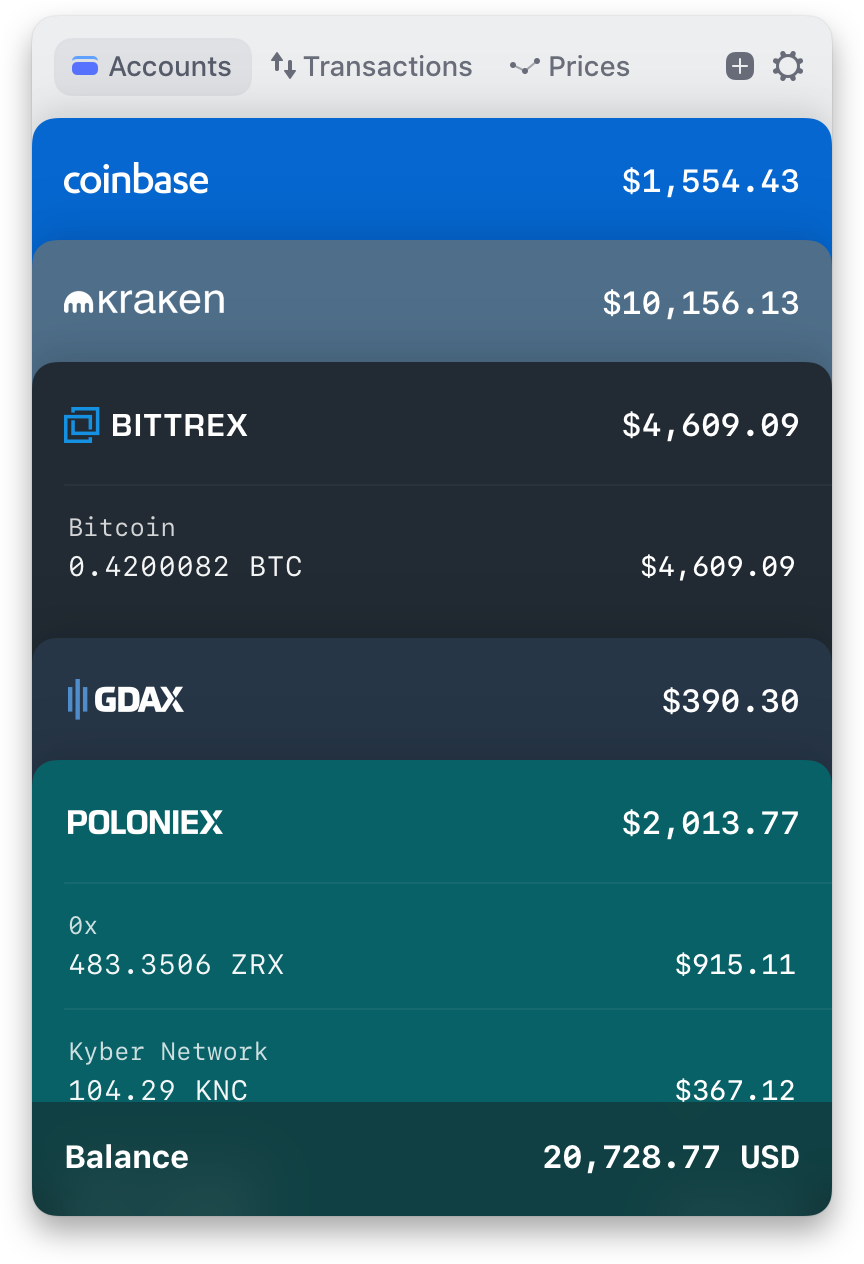
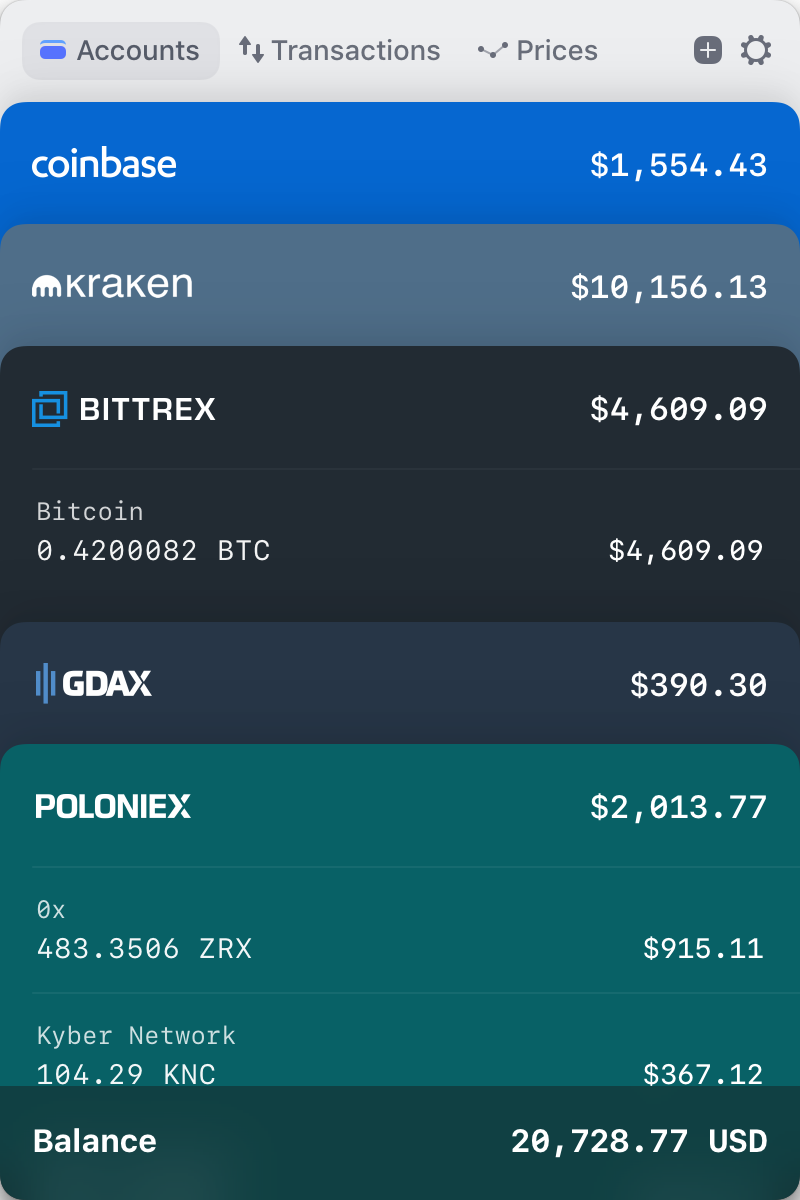
responsivess adjustments

Changed region(s): [[0.0, 0.0308, 1.0, 1.0]]

diff --git a/src/templates/page.js b/src/templates/page.js
@@ -9,7 +9,7 @@ import { colors, responsive } from '../styles';
 const SPage = styled(Section)`
   padding: 56px 0 12px;
   font-size: 14px;
-  min-height: ${({ article }) => (article ? 0 : 'calc(100vh - 136px)')};
+  min-height: ${({ article }) => (article ? 'calc(100vh - 136px)' : 0)};
   & article * {
     padding-bottom: 20px;
     opacity: 0.9;
@@ -33,7 +33,8 @@ const SPage = styled(Section)`
     display: flex;
     flex-direction: column;
     justify-content: center;
-  `} @media screen and (${responsive.sm.max}) {
+  `};
+  @media screen and (${responsive.sm.max}) {
     padding-left: 15px;
     padding-right: 15px;
   }
@@ -74,14 +75,14 @@ const layoutTheme = {
   logoHover: colors.lightBlue
 };
 
-const Page = ({ children, title, article, siteTitle }) => (
+const Page = ({ children, title, article, siteTitle, ...props }) => (
   <div>
     <Helmet
       title={`${title} - ${siteTitle}`}
       meta={[{ name: 'twitter:title', content: title }, { name: 'og:title', content: title }]}
     />
     <Header theme={layoutTheme} />
-    <SPage article={article} maxWidth={700} fontColor={colors.white}>
+    <SPage article={article} maxWidth={700} fontColor={colors.white} {...props}>
       {!article ? (
         <SPageContent>{children}</SPageContent>
       ) : (

diff --git a/src/sections/BalanceSubscribe.js b/src/sections/BalanceSubscribe.js
@@ -73,8 +73,8 @@ const SPreviewWrapper = styled(SHalf)`
 `;
 
 const SPreview = styled.div`
-  width: ${({ mobile }) => (mobile ? '360px' : '396px')};
-  height: ${({ mobile }) => (mobile ? '238px' : '600px')};
+  width: ${({ mobile }) => (mobile ? 'calc(100% - 68px)' : '396px')};
+  height: ${({ mobile }) => (mobile ? 'calc((100vw - 68px) * 0.66)' : '600px')};
   background: ${({ img }) => `url(${img})`};
   background-size: contain;
   background-repeat: no-repeat;
@@ -83,6 +83,10 @@ const SPreview = styled.div`
   transition: ${transitions.base};
   &:hover > div {
     transform: scale(1.08);
+  }
+  @media screen and (${responsive.sm.min}) and (${responsive.md.max}) {
+    width: ${({ mobile }) => (mobile ? '360px' : '396px')};
+    height: ${({ mobile }) => (mobile ? '238px' : '600px')};
   }
 `;
 
@@ -110,8 +114,11 @@ const SPlayButton = styled.div`
     transform: scale(1.1);
   }
   @media (-webkit-min-device-pixel-ratio: 0) and (min-resolution: 0.001dpcm) {
-    backdrop-filter: none !important;
-    background: rgb(${colors.mediumGrey}) !important;
+    margin-top: 80px !important;
+    background: rgba(${colors.grey}, 0.3) !important;
+  }
+  @media screen and (${responsive.xs.max}) {
+    margin-top: 60px !important;
   }
 `;
 

diff --git a/src/pages/download.js b/src/pages/download.js
@@ -4,6 +4,10 @@ import Page from '../templates/page';
 import { downloadLatestRelease } from '../utils/api';
 import { colors, responsive } from '../styles';
 
+const StyledPage = styled(Page)`
+  min-height: calc(100vh - 136px);
+`;
+
 const SFlex = styled.div`
   height: 100%;
   display: flex;
@@ -65,7 +69,7 @@ class Download extends Component {
   render = () => {
     const siteTitle = this.props.data.site.siteMetadata.title;
     return (
-      <Page title={'Download'} siteTitle={siteTitle}>
+      <StyledPage title={'Download'} siteTitle={siteTitle}>
         <SFlex>
           <div>
             <STitle>Balance - A secure automatic portfolio tracker</STitle>
@@ -76,7 +80,7 @@ class Download extends Component {
             <SGreenButton onClick={this.onDownload}>Download for macOS</SGreenButton>
           </div>
         </SFlex>
-      </Page>
+      </StyledPage>
     );
   };
 }

diff --git a/src/pages/index.js b/src/pages/index.js
@@ -22,8 +22,6 @@ const SVideoContainer = styled.div`
   cursor: pointer;
   background: rgba(${colors.dark}, 0.3);
   transition: opacity 0.225s cubic-bezier(0, 0, 0.2, 1);
-  -webkit-backdrop-filter: blur(12px);
-  backdrop-filter: blur(12px);
   opacity: ${({ show }) => (show ? 1 : 0)};
   visibility: ${({ show }) => (show ? 'visible' : 'hidden')};
   pointer-events: ${({ show }) => (show ? 'auto' : 'none')};

diff --git a/src/sections/BalanceLaunch.js b/src/sections/BalanceLaunch.js
@@ -87,8 +87,8 @@ const SAppPreview = styled.div`
     margin-top: 60px;
   }
   @media screen and (${responsive.sm.max}) {
-    width: 320px;
-    height: 485px;
+    width: 100%;
+    height: calc((100vw - 68px) * 1.5156);
   }
 `;
 

diff --git a/src/legacy/support.md b/src/legacy/support.md
@@ -2,6 +2,8 @@
 title: Support
 ---
 
-If you have any questions or concerns, please contact us at support@balancemy.money.
+If you have any questions or concerns, please contact us at
 
-Or reach us on Twitter @balancemymoney.
+**support@balancemy.money**
+
+Or reach us on Twitter `@balancemymoney`
